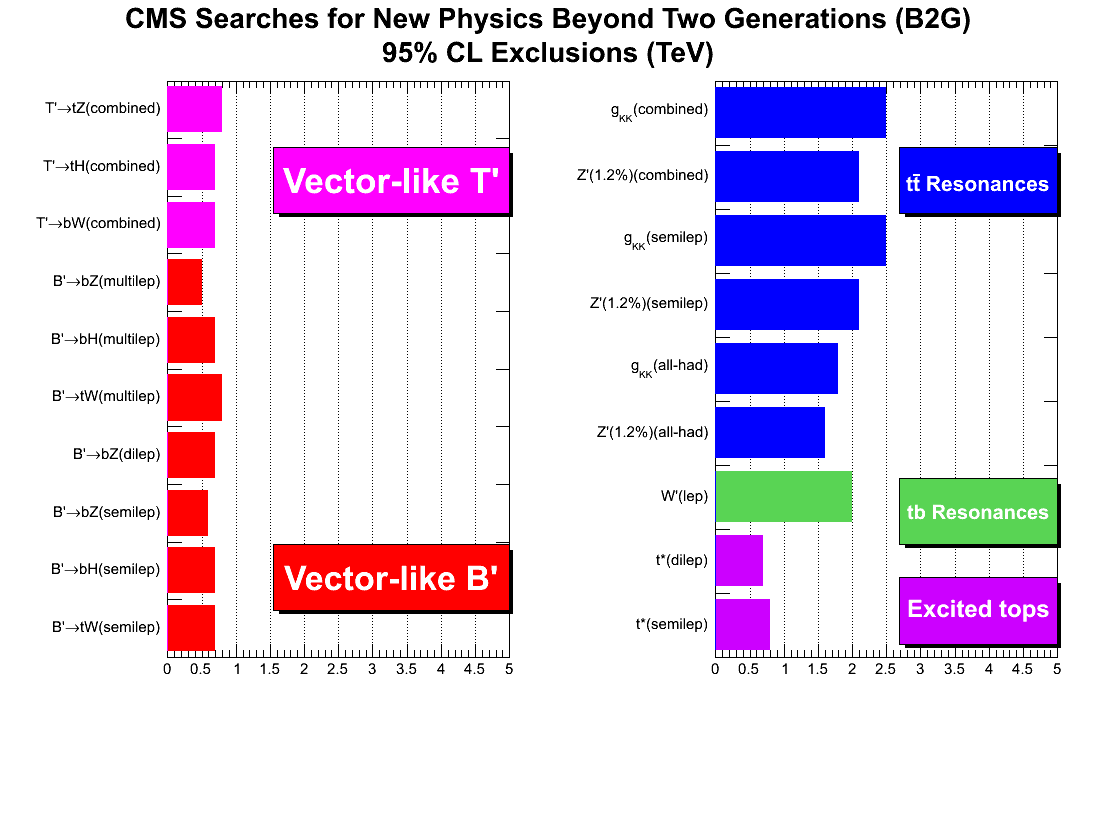
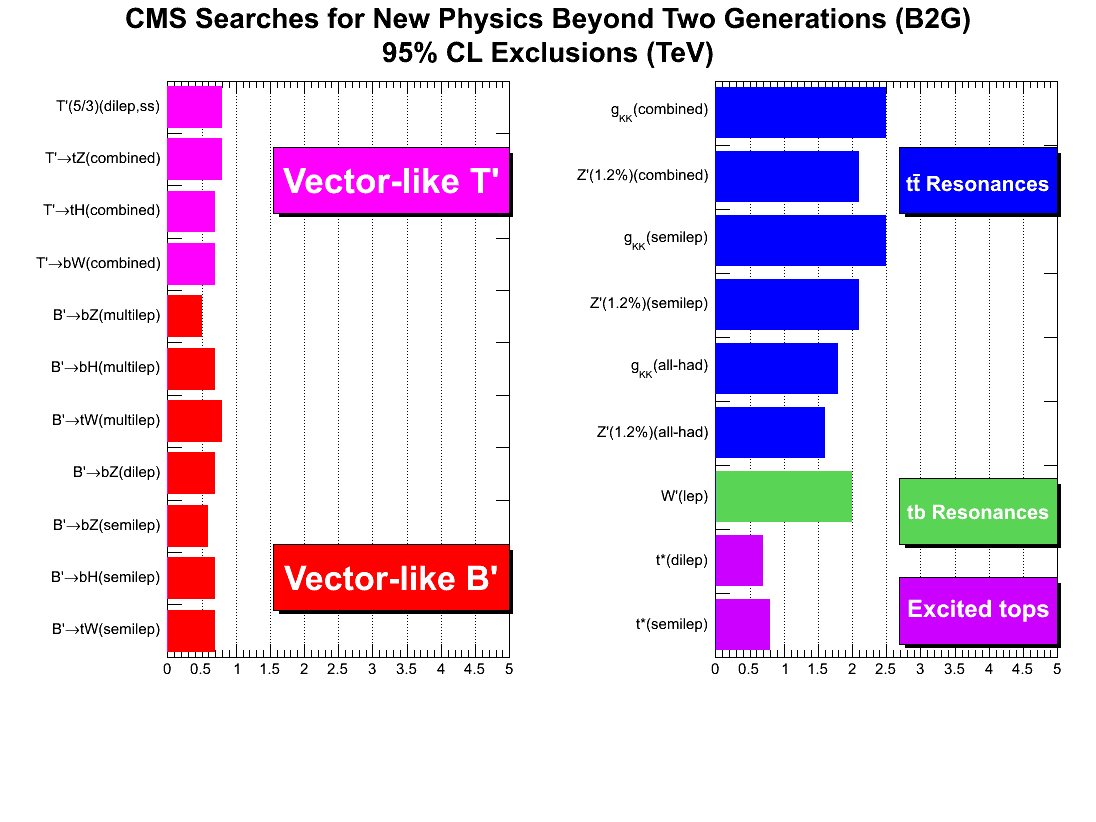
Forgot T5/3! Ack!

diff --git a/fullmacro.py b/fullmacro.py
@@ -195,5 +195,5 @@ for key in [  "B'", "T'", "t*", "W'", "Z'"] :
     paves.append(p)
 
 c_all.Update()
-c_all.Print("b2g_summary.pdf", "pdf")
-c_all.Print("b2g_summary.png", "png")
+c_all.Print("b2g_summary_updated.pdf", "pdf")
+c_all.Print("b2g_summary_updated.png", "png")
